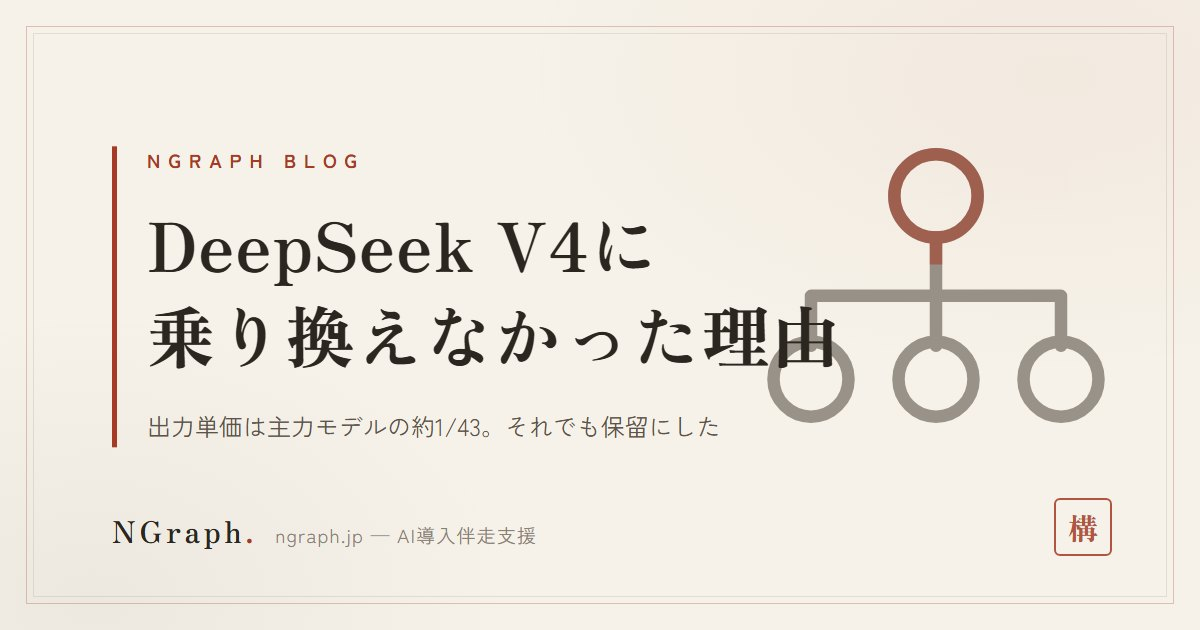
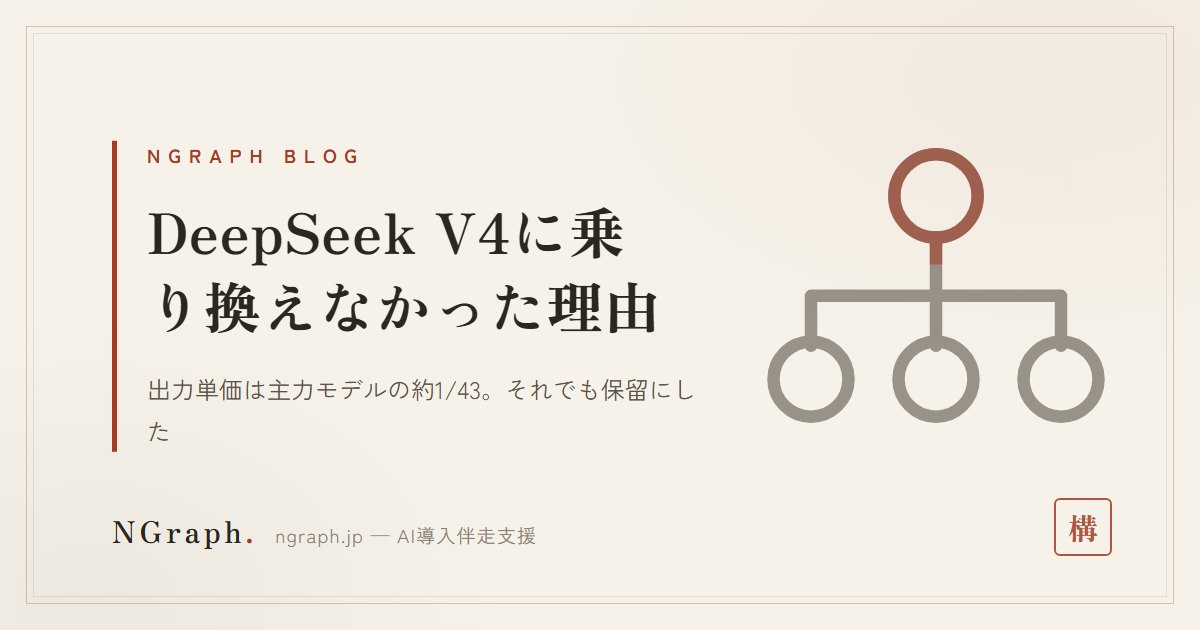
fix: アイキャッチの本文が図案に重なる欠陥を根治（47枚中12枚で発生していた）
テキスト枠(右端872px)と図案枠(左端736px)が最初から136px重なっており、
タイトルが長い回だけ本文が図案を突き抜けていた。短い回は表に出ないので
46本ぶん誰も気付かなかった。

- テキスト枠を566pxに絞り、図案域に届かないようにした
- タイトルの級数を、禁則を考慮した折り返しシミュレーションで自動決定
  （box-sizing:border-box を計算に入れ忘れて1文字あふれる穴も潰した）
- scripts/eyecatch_check.py を新設し gate.py に組み込んだ。
  図案域の墨画素を数えるので、目視でなく機械で落とせる
- 該当していた12枚を作り直した（デザインは変更していない）

Changed region(s): [[0.1233, 0.3317, 0.7092, 0.6333], [0.1233, 0.6635, 0.6167, 0.6937], [0.1233, 0.2413, 0.3083, 0.2714]]

diff --git a/scripts/eyecatch_gen.py b/scripts/eyecatch_gen.py
@@ -57,10 +57,10 @@ body{width:1200px;height:630px;overflow:hidden;position:relative;
  font-family:'Zen Kaku Gothic New',sans-serif;color:#2b2620}
 .frame{position:absolute;inset:26px;border:1px solid rgba(166,58,36,.28)}
 .frame::after{content:"";position:absolute;inset:6px;border:1px solid rgba(60,52,42,.10)}
-.txt{position:absolute;left:112px;top:50%%;transform:translateY(-56%%);width:730px;border-left:5px solid #a63a24;padding-left:30px}
+.txt{position:absolute;left:112px;top:50%%;transform:translateY(-56%%);width:566px;border-left:5px solid #a63a24;padding-left:30px}
 .label{font-size:19px;letter-spacing:.42em;color:#a63a24;font-weight:700;margin-bottom:24px}
-.title{font-family:'Zen Old Mincho',serif;font-weight:900;font-size:68px;line-height:1.34;letter-spacing:.02em;color:#2b2620;margin-bottom:26px}
-.sub{width:640px;font-size:24px;line-height:1.75;color:#5c544a}
+.title{font-family:'Zen Old Mincho',serif;font-weight:900;font-size:%(fs)dpx;line-height:1.34;letter-spacing:.02em;color:#2b2620;margin-bottom:26px}
+.sub{width:566px;font-size:24px;line-height:1.75;color:#5c544a}
 .title .nb{white-space:nowrap}
 .brand{position:absolute;left:112px;bottom:78px;display:flex;align-items:baseline;gap:18px}
 .brand .n{font-family:'Zen Old Mincho',serif;font-size:30px;font-weight:700;letter-spacing:.12em}
@@ -88,6 +88,54 @@ def esc(s):
     return s.replace("&", "&amp;").replace("<", "&lt;").replace(">", "&gt;")
 
 
+# テキスト枠は右端708px、図案は左端736px。枠が重ならないよう幅を566pxに絞ったので、
+# 長いタイトルは級数を落とさないと行数が増えて縦にはみ出す。文字数から級数を決める。
+# （2026-08-08: 旧設定は枠が136px重なっており、47枚中12枚で本文が図案を突き抜けていた）
+# .txt は width:566px だが box-sizing:border-box なので、
+# 実際に文字が流れる幅は 566 − padding-left 30 − border-left 5 = 531px。
+# ここを566のまま計算していて、1文字あふれて3行になる回が出た（2026-08-08）。
+BOX_W = 531
+FS_MAX, FS_MIN = 68, 40
+
+
+MAX_LINES = 2
+# 行頭に置けない文字（禁則）。ここに当たると1文字前の行へ送られるので、
+# 掛け算で級数を決めると必ず読み違える。実際に折り返しを回して数える。
+KINSOKU_HEAD = "」）】』〉》、。，．・？！ゃゅょっァィゥェォッャュョーぁぃぅぇぉ%％"
+KINSOKU_TAIL = "「（【『〈《"
+
+
+def _advance(ch, fs):
+    return fs * 0.57 if ord(ch) < 0x2E80 else fs * 1.04  # 1.02em + letter-spacing .02em
+
+
+def _count_lines(body, fs):
+    """禁則を考慮した貪欲な折り返しで行数を数える。"""
+    lines, cur = 1, 0.0
+    for i, ch in enumerate(body):
+        w = _advance(ch, fs)
+        if cur + w > BOX_W:
+            # 次の文字が行頭禁則、または今の文字が行末禁則なら1文字ぶん余計に送る
+            lines += 1
+            cur = w
+            if ch in KINSOKU_HEAD or (i and body[i - 1] in KINSOKU_TAIL):
+                cur += _advance(ch, fs)
+        else:
+            cur += w
+    return lines
+
+
+def fit_font_size(title):
+    """MAX_LINES 行に収まる最大の級数を返す（1文字だけ残る行を作らない）。"""
+    body = title.replace("{nb}", "").replace("{/nb}", "")
+    if not body:
+        return FS_MAX
+    for fs in range(FS_MAX, FS_MIN - 1, -1):
+        if _count_lines(body, fs) <= MAX_LINES:
+            return fs
+    return FS_MIN
+
+
 def main():
     if len(sys.argv) < 5:
         print(__doc__)
@@ -103,7 +151,7 @@ def main():
         print("unknown pattern:", pat, "->", "/".join(PATS))
         sys.exit(1)
     title_html = esc(title).replace("{nb}", '<span class="nb">').replace("{/nb}", "</span>")
-    html = TPL % {"title": title_html, "sub": esc(sub), "pat": PATS[pat]}
+    html = TPL % {"title": title_html, "sub": esc(sub), "pat": PATS[pat], "fs": fit_font_size(title)}
     html = html.replace(">NGRAPH BLOG<", ">" + esc(label) + "<")
     tmp = tempfile.mkdtemp(prefix="eyecatch_")
     hp = os.path.join(tmp, slug + ".html")

diff --git a/scripts/eyecatch_check.py b/scripts/eyecatch_check.py
@@ -1,0 +1,76 @@
+#!/usr/bin/env python
+# -*- coding: utf-8 -*-
+"""アイキャッチの「本文が図案に重なる」検査（BLOG-OPS §6・gate.py から自動実行）。
+
+なぜ入れたか（2026-08-08）: `eyecatch_gen.py` のテキスト枠は
+left:112 + padding30 + width730 = 右端872px、図案は right:64 + 400px = 左端736px。
+**枠が最初から136px重なっていた。** タイトルが短い回はテキストが図案まで届かないので
+表に出ず、長い回だけ本文が図案を突き抜ける。47枚中12枚で発生していた
+（what-is-fde・20260802-seisei-ai-gijiroku-domari など）。
+
+検査の理屈: 図案の線は opacity .5 で地色と混ざり RGB ≒ 153 になる。
+タイトルの墨は #2b2620（≒ 43）。**図案域に「最大値100未満の画素」があれば本文が入り込んでいる**。
+朱 #a63a24 は R=166 なので拾わない。目視でなく画素で判定できる。
+
+使い方:
+    python scripts/eyecatch_check.py                 # assets/blog/*.jpg を全数検査
+    python scripts/eyecatch_check.py <path.jpg> ...  # 指定ファイルだけ
+"""
+import glob
+import os
+import sys
+
+sys.stdout.reconfigure(encoding="utf-8")
+
+ROOT = os.path.dirname(os.path.dirname(os.path.abspath(__file__)))
+
+CANVAS = (1200, 630)
+# 図案の占有域（テキストが入ってきてはいけない範囲）
+X0, X1 = 742, 1140
+Y0, Y1 = 90, 520
+INK_MAX = 100      # これ未満を「墨のテキスト」とみなす
+LIMIT = 400        # この画素数を超えたら重なりとする（アンチエイリアスの数十画素は許容）
+
+
+def scan(path):
+    from PIL import Image
+    im = Image.open(path).convert("RGB")
+    if im.size != CANVAS:
+        return None, "サイズが %s（想定 %s）" % (im.size, CANVAS)
+    px = im.load()
+    n = 0
+    for y in range(Y0, Y1, 2):
+        for x in range(X0, X1, 2):
+            r, g, b = px[x, y]
+            if max(r, g, b) < INK_MAX:
+                n += 1
+    return n * 4, None
+
+
+def main():
+    args = [a for a in sys.argv[1:] if not a.startswith("-")]
+    files = args or sorted(glob.glob(os.path.join(ROOT, "assets", "blog", "*.jpg")))
+    if not files:
+        print("検査対象なし")
+        return 0
+    bad = []
+    for p in files:
+        n, err = scan(p)
+        if err:
+            bad.append((os.path.basename(p), err))
+            continue
+        if n > LIMIT:
+            bad.append((os.path.basename(p), "本文が図案に重なっている（墨 %d px）" % n))
+    if bad:
+        print("NG: アイキャッチ %d 枚で本文が図案に重なっている" % len(bad))
+        for name, why in bad:
+            print("  - %s: %s" % (name, why))
+        print("  直し方: python scripts/eyecatch_gen.py <slug> \"<短いタイトル>\" \"<サブ>\" <pattern> で作り直す")
+        print("         （生成側は文字数に応じて自動で級数を落とすので、作り直せば解消する）")
+        return 1
+    print("OK: アイキャッチ %d 枚、本文と図案の重なりなし" % len(files))
+    return 0
+
+
+if __name__ == "__main__":
+    sys.exit(main())

diff --git a/scripts/gate.py b/scripts/gate.py
@@ -29,6 +29,7 @@ CHECKS = [
     ("配線漏れ（sitemap / llms.txt / alt）", "publish_check.py", ["--check"], False),
     ("タイトルの弱い定型", "title_lint.py", [], False),
     ("一次体験の使い回し", "anecdote_lint.py", [], True),
+    ("アイキャッチの本文と図案の重なり", "eyecatch_check.py", [], False),
 ]
 
 
